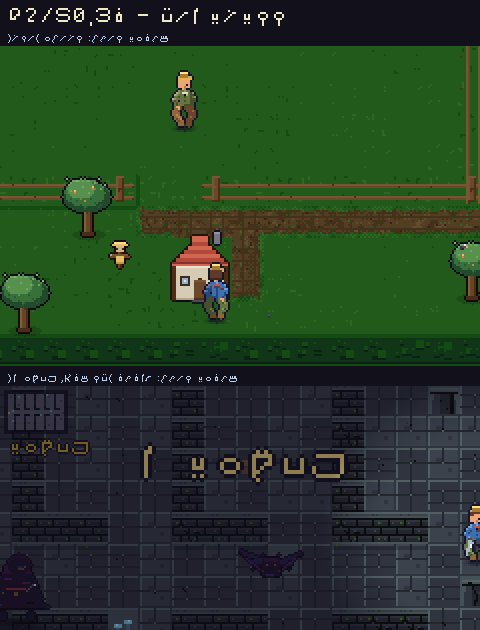
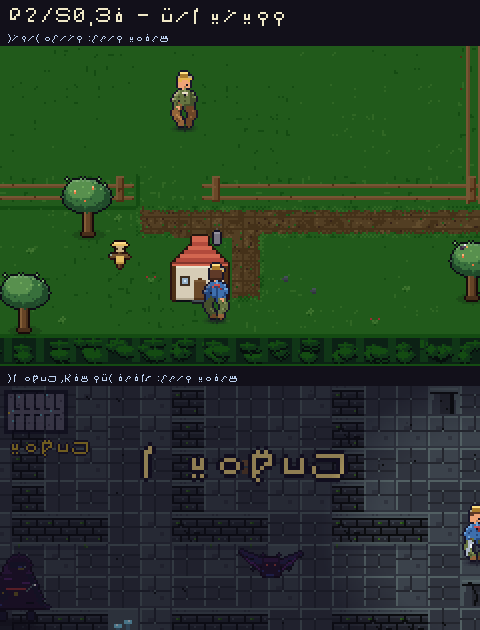
art(S2.9): map edge + clustered decals (baked)
- js/art/decal.js (new, 71L): bakeDecals + drawForest, both baked into the terrain cache
  * 4 clustered 3-6px templates written as character tables (tall-grass tuft, clover,
    flower cluster with 2-3 ramp tones, pebble with 1px shadow) replacing the old
    single-pixel meadow decor
  * placement: deterministic hash2 jitter, density from c.db (near road/water) times the
    same macro fbm field tuftBake uses; grass outside the fence only (never soil/path/water)
  * map edge: dense darker forest band over the S2.8 hedge - 4 baked tree crowns
    (3-layer ellipse: shadow L13 / body L39 / lit top-left L52) clipped to the inner box
    so the S2.8 2px silhouette (crown/dark rim/contact shadow) survives
- farm_terrain.js 218->221L: bakeDecals + drawForest call sites
- farm_render.js: per-frame drawMeadow call removed (zero decal work per frame)
- farm_decor.js 133->113L: drawMeadow deleted
- tools/build_single.mjs: register art/decal in BASE
- docs: MEMORY (ن۷۰ + lessons 64-67 + file map), roadmap/P2.md, ROADMAP.md (S2.9 ticked)

Acceptance: decal density 12.9% on the real map (target 8-14%; the old drawMeadow measured
12.4% by the same metric); zero decal pixels on soil/path (the 8 matching pixels in water
tiles are the pre-existing drawWaterLife lilies); M8 map-edge/forest vs ground = 0 of 92
edges (3/1472 rows, max dL 26.7) and fence = 0 of 108; M6 farm 1.03 and M7 2.2% (was 2.9%)
still in range; run_all ALL GREEN (11/15/27); art_audit unchanged (5.5/10, M8 0/0);
[…]

diff --git a/game.html b/game.html
@@ -1351,6 +1351,82 @@ function drawHedge(r, v) {
 return {drawFence, drawHedge};
 })();
 const {drawFence, drawHedge} = __m_art_fence;
+const __m_art_decal = (() => {
+// art/decal.js — دکالهای خوشهایِ پختهشده + نوارِ جنگلِ لبهی نقشه (S2.9)
+// همه چیز **هنگامِ پخت** در کشِ زمین کشیده میشود ⇒ حلقهی هر فریم هیچ دکالی نمیکشد (درس ۵۷).
+// جایگذاری: jitterِ قطعی روی مختصاتِ جهانی (hash2 یکنواخت) + چگالی از `c.db` (نزدیکیِ راه/آب) و نویزِ ماکرو.
+
+
+
+
+const MACRO_F = 0.025;  // همان میدانِ ماکروی tuftBake در farm_terrain (بذر ۵۱) ⇒ دکالها جایی مینشینند که چمن پرپشتتر است
+
+// قالبهای خوشهای ۳–۶px (جایگزینِ دکورِ پیکسلمنفردِ ن۳۶)
+// '=' روشن (تیغه/رویه) · '-' میانی · '.' سایه · '*' گل · 'o' سنگِ روشن · '#' سنگ · ':' سایهی سنگ
+const TONE = { '=': rp('grass', 6), '-': rp('grass', 5), '.': rp('grass', 3) };
+const FL = [E.flowerY, E.flowerW, E.berry];          // ۲–۳ رنگ از رمپ برای هر دستهگل
+const ST = [E.stoneHi, E.stone, E.stoneSh];
+const TPL = [
+  ['  = ', ' =-=', '=-= ', ' .- '],        // تافتِ علف بلند (۴×۴)
+  [' =-=', '=-==', ' .- '],                // شبدر (۴×۳)
+  ['*   *', ' =-= ', ' -=- ', '  .  '],    // گلدسته (۵×۴)
+  [' oo', '###', ' ::'],                   // سنگریزه (۳×۳) + سایهی ۱px
+];
+function stamp(r, ti, x, y, fl) {
+  const g = TPL[ti];
+  for (let gy = 0; gy < g.length; gy++) for (let gx = 0; gx < g[gy].length; gx++) {
+    const ch = g[gy][gx];
+    if (ch === ' ') continue;
+    const col = TONE[ch] || (ch === '*' ? fl : ch === 'o' ? ST[0] : ch === '#' ? ST[1] : ST[2]);
+    r.px(x + gx, y + gy, col);
+  }
+}
+
+// دکالهای یک تایلِ چمن (فقط بیرونِ حصار: روی خاک/راه/آب/سازه هرگز دکال نمیآید)
+function bakeDecals(r, f, tx, ty, sx, sy) {
+  const c = f.cell(tx, ty);
+  if (c.kind !== 'grass' || f.insideFence(tx, ty)) return;
+  const m = Math.abs(fbm((tx * TILE + 8) * MACRO_F, (ty * TILE + 8) * MACRO_F, 51, 2) - 0.5); // ۰..۰٫۵
+  const p = (c.db ? 0.13 : 0.085) * (0.75 + m * 0.8); // چگالی: کنارِ راه/آب بیشتر + نویزِ ماکرو (کالیبره: ~۱۱٪ روی نقشهٔ واقعی)
+  for (let i = 0; i < 2; i++) {                       // تا ۲ خوشه در تایل
+    if (hash2(tx * 7 + i * 31, ty * 13 - i * 5, 71) >= p) continue;
+    const t = (hash2(tx * 3 + i, ty * 5 + i * 17, 73) * 4) | 0;
+    const gx = sx + 2 + ((hash2(tx * 11 + i * 7, ty * 3 - i, 79) * 8) | 0);  // ۲..۹ (عرض ≤۵ ⇒ در تایل)
+    const gy = sy + 3 + ((hash2(tx * 5 - i * 3, ty * 7 + i * 11, 83) * 7) | 0); // ۳..۹ (ارتفاع ≤۴)
+    stamp(r, t, gx, gy, FL[(hash2(tx + i * 13, ty * 3 + i, 89) * 3) | 0]);
+  }
+}
+
+// نوارِ جنگلِ لبهی نقشه (روی پرچینِ S2.8): تاجهای درختِ پختهشده + زیرسایهی انبوه، یک پله **تیرهتر** از پرچین
+// حاشیهی ۲pxـهی S2.8 (تاج/سایه/لبهی روشن + سایهی تماس روی چمن) دستنخورده میماند ⇒ M8 لبهی نقشه صفر میماند
+const F0 = rp('grass', 0), F1 = rp('grass', 1), F2 = rp('grass', 2), F3 = rp('grass', 3); // L۱۳/۲۵/۳۹/۵۲
+function blob(r, cx, cy, rx, ry, col, x0, y0, x1, y1) { // بیضی با برش به جعبه (تا تاجها روی لبهی تایل نریزند)
+  const r2 = rx * rx, y2 = ry * ry;
+  for (let y = cy - ry; y <= cy + ry; y++) {
+    if (y < y0 || y > y1) continue;
+    for (let x = cx - rx; x <= cx + rx; x++) {
+      if (x < x0 || x > x1) continue;
+      const dx = x - cx, dy = y - cy;
+      if (dx * dx * y2 + dy * dy * r2 <= r2 * y2) r.px(x, y, col);
+    }
+  }
+}
+function drawForest(r, sx, sy, tx, ty) {
+  r.rect(sx + 2, sy + 2, 12, 12, F1);                  // زیرسایهی انبوه (L۲۵)
+  const x0 = sx + 1, y0 = sy + 1, x1 = sx + TILE - 2, y1 = sy + TILE - 2;
+  for (let i = 0; i < 4; i++) {                        // ۴ تاجِ درخت با جابهجاییِ قطعی ⇒ نوار پیوسته میماند
+    const a = hash2(tx * 5 + i * 17, ty * 11 - i * 3, 91), b = hash2(i * 23 - ty, i * 7 + tx * 3, 97);
+    const cx = sx + 4 + ((a * 8) | 0), cy = sy + 4 + ((b * 8) | 0);   // ۴..۱۱
+    const rx = 3 + ((a * 3) | 0), ry = 2 + ((b * 2) | 0);             // ۳..۵ × ۲..۳
+    blob(r, cx, cy + 1, rx, ry, F0, x0, y0, x1, y1);   // سایهی زیرِ تاج (L۱۳)
+    blob(r, cx, cy, rx, ry, F2, x0, y0, x1, y1);       // بدنهی تاج (L۳۹)
+    blob(r, cx - 1, cy - 1, rx - 1, ry - 1, F3, x0, y0, x1, y1); // رویهی روشنِ بالا-چپ (L۵۲)
+  }
+}
+
+return {bakeDecals, drawForest};
+})();
+const {bakeDecals, drawForest} = __m_art_decal;
 const __m_art_autotile = (() => {
 // art/autotile.js — autotiling: mask4/mask8 + جدول ۴۷ تایلی (blob47) + کش لیزِ تایل ۱۶×۱۶ (S2.2)
 // قاعدهی blob47 (استاندارد): بیتِ گوشه فقط وقتی معنا دارد که **هر دو ضلع مجاورش** پر باشند
@@ -1938,27 +2014,6 @@ const __m_art_farm_decor = (() => {
 
 const hash = (x, y) => { let h = (x * 374761393 + y * 668265263) | 0; h = (h ^ (h >> 13)) * 1274126177; return ((h ^ (h >> 16)) >>> 0) / 4294967295; };
 
-// گل/چمنبلند/سنگ روی چمنِ بیرون حصار — تصادفیِ قطعی بر اساس مختصات
-function drawMeadow(r, sx, sy, tx, ty) {
-  const h0 = hash(tx, ty);
-  if (h0 >= 0.061) return; // ن۳۶: چگالی ~۱۲٪ روی نقشه (hash سوگیریٔ پایینی دارد — آستانه کالیبره شد)
-  const fxp = 2 + Math.floor(hash(tx * 3, ty * 7) * 12), fyp = 2 + Math.floor(hash(tx * 11, ty * 5) * 12);
-  if (h0 < 0.028) { // دستهگل (~۴۶٪ از دکور)
-    r.px(sx + fxp, sy + fyp, hash(tx, ty * 13) < 0.5 ? E.flowerY : E.flowerW);
-    r.px(sx + fxp, sy + fyp + 1, E.grassBlade);
-    if (hash(tx * 17, ty) < 0.4) r.px(sx + fxp + 3, sy + fyp + 2, hash(tx, ty * 19) < 0.5 ? E.berry : E.gold);
-  } else if (h0 < 0.045) { // چمن بلند (~۲۸٪)
-    r.px(sx + fxp, sy + fyp + 1, E.grassSh); // ن۳۸: استاتیک — تابِ بیهدف حذف
-    r.px(sx + fxp, sy + fyp, E.grassBlade);
-    r.px(sx + fxp + 2, sy + fyp + 1, E.grassBlade);
-    r.px(sx + fxp + 1, sy + fyp + 2, E.grassSh);
-  } else { // سنگریزهی خاکستری
-    r.px(sx + fxp, sy + fyp, E.stoneHi);
-    r.px(sx + fxp + 1, sy + fyp, E.stone);
-    r.px(sx + fxp, sy + fyp + 1, E.stoneSh);
-  }
-}
-
 // اسپارکل چشمکزن روی محصول رسیده — از دور قابلدیدن
 
 
@@ -2067,9 +2122,9 @@ function drawPathEdge(r, sx, sy, tx, ty, f) {
   if ((m & 64) && (m & 1) && !(m & 128)) cornerNotch(r, sx, sy, 0, 0, gx0, gy0);
 }
 
-return {drawMeadow, drawReadySparkle, drawWaterLife, drawSaleSign, drawPathEdge};
+return {drawReadySparkle, drawWaterLife, drawSaleSign, drawPathEdge};
 })();
-const {drawMeadow, drawReadySparkle, drawWaterLife, drawSaleSign, drawPathEdge} = __m_art_farm_decor;
+const {drawReadySparkle, drawWaterLife, drawSaleSign, drawPathEdge} = __m_art_farm_decor;
 const __m_art_dungeon_depth = (() => {
 // art/dungeon_depth.js — عمق و بافت دانجن: سایهی دیوار روی کف، لبهی روشن،
 // سنگریزه/ترک ریز کف، خزه روی دیوار — همه تصادفیِ قطعی (بدون حالت)
@@ -2722,6 +2777,7 @@ const __m_farm_terrain = (() => {
 
 
 
+
 let cache = null;      // Raster کل دنیا (۴۸۰×۳۲۰)
 let bound = null;      // فارمِ متصل به کش (هر Game کش خودش را دارد)
 const dirty = new Set();
@@ -2846,9 +2902,11 @@ function bakeTile(f, tx, ty, r, wf = 0) {
   }
   else { groundSprite('grass', (tx * 5 + ty * 3) & 3).over(r, sx, sy); base = null; }
   if (base) base.over(r, sx, sy);
+  if (c.kind === 'hedge') drawForest(r, sx, sy, tx, ty); // S2.9: نوارِ جنگلِ لبهی نقشه (تاجهای پختهشده)
   // S2.4: تُنِ ماکرو روی زمینِ چمنی (سازهها هم چون پایهشان چمن است یکدست میمانند)
   if (c.kind === 'grass' || c.kind === 'tree' || c.kind === 'sign' || c.kind === 'house' || c.kind === 'scarecrow') tuftBake(r, sx, sy, tx, ty);
   if (c.kind === 'grass') structShadow(r, f, tx, ty, sx, sy); // S2.8: سایهٔ تماسِ حصار/پرچین/بوته (SE)
+  if (c.kind === 'grass') bakeDecals(r, f, tx, ty, sx, sy); // S2.9: دکالهای خوشهای (فقط چمنِ بیرونِ حصار)
   if (c.kind === 'path') drawPathEdge(r, sx, sy, tx, ty, f);
   if (c.kind === 'soil') soilBake(r, f, tx, ty, sx, sy); // S2.6
   if (c.kind === 'water') bakeWater(r, f, tx, ty, sx, sy, wf);
@@ -3416,7 +3474,7 @@ function renderFarm(game, r) {
       // ---- دکور زندهی مزرعه (آرت جدا در js/art/) ----
       if (c.kind === 'sign') drawSaleSign(r, sx, sy, game.time);
       else if (c.kind === 'scarecrow') drawScarecrow(r, sx, sy, game.time); // نگهبان پرندهها
-      else if (c.kind === 'grass' && !f.insideFence(tx, ty)) drawMeadow(r, sx, sy, tx, ty, game.time, c.db); // db = نزدیکی مسیر/آب → گل بیشتر
+      // S2.9: دکالهای چمنزار (تافت/شبدر/گلدسته/سنگریزه) حالا در کشِ زمین پخته میشوند ⇒ هر فریم صفر هزینه
       if (tx === 26 && ty === 14 && game.toolLvls.sprinkler) drawSprinkler(r, sx, sy, game.time); // آبپاش: بالای حوضچه، از آن آب میکشد
       if (tx === 18 && ty === 16 && game.toolLvls.basket) drawBasketCrate(r, sx, sy, game.time); // سبد: کنار خانه
       else if (c.kind === 'water') drawWaterLife(r, sx, sy, tx, ty, game.time);

diff --git a/js/art/decal.js b/js/art/decal.js
@@ -1,0 +1,71 @@
+// art/decal.js — دکالهای خوشهایِ پختهشده + نوارِ جنگلِ لبهی نقشه (S2.9)
+// همه چیز **هنگامِ پخت** در کشِ زمین کشیده میشود ⇒ حلقهی هر فریم هیچ دکالی نمیکشد (درس ۵۷).
+// جایگذاری: jitterِ قطعی روی مختصاتِ جهانی (hash2 یکنواخت) + چگالی از `c.db` (نزدیکیِ راه/آب) و نویزِ ماکرو.
+import { TILE, E } from './palette_env.js';
+import { hash2, fbm } from './noise.js';
+import { rp } from './ramps.js';
+
+const MACRO_F = 0.025;  // همان میدانِ ماکروی tuftBake در farm_terrain (بذر ۵۱) ⇒ دکالها جایی مینشینند که چمن پرپشتتر است
+
+// قالبهای خوشهای ۳–۶px (جایگزینِ دکورِ پیکسلمنفردِ ن۳۶)
+// '=' روشن (تیغه/رویه) · '-' میانی · '.' سایه · '*' گل · 'o' سنگِ روشن · '#' سنگ · ':' سایهی سنگ
+const TONE = { '=': rp('grass', 6), '-': rp('grass', 5), '.': rp('grass', 3) };
+const FL = [E.flowerY, E.flowerW, E.berry];          // ۲–۳ رنگ از رمپ برای هر دستهگل
+const ST = [E.stoneHi, E.stone, E.stoneSh];
+const TPL = [
+  ['  = ', ' =-=', '=-= ', ' .- '],        // تافتِ علف بلند (۴×۴)
+  [' =-=', '=-==', ' .- '],                // شبدر (۴×۳)
+  ['*   *', ' =-= ', ' -=- ', '  .  '],    // گلدسته (۵×۴)
+  [' oo', '###', ' ::'],                   // سنگریزه (۳×۳) + سایهی ۱px
+];
+function stamp(r, ti, x, y, fl) {
+  const g = TPL[ti];
+  for (let gy = 0; gy < g.length; gy++) for (let gx = 0; gx < g[gy].length; gx++) {
+    const ch = g[gy][gx];
+    if (ch === ' ') continue;
+    const col = TONE[ch] || (ch === '*' ? fl : ch === 'o' ? ST[0] : ch === '#' ? ST[1] : ST[2]);
+    r.px(x + gx, y + gy, col);
+  }
+}
+
+// دکالهای یک تایلِ چمن (فقط بیرونِ حصار: روی خاک/راه/آب/سازه هرگز دکال نمیآید)
+export function bakeDecals(r, f, tx, ty, sx, sy) {
+  const c = f.cell(tx, ty);
+  if (c.kind !== 'grass' || f.insideFence(tx, ty)) return;
+  const m = Math.abs(fbm((tx * TILE + 8) * MACRO_F, (ty * TILE + 8) * MACRO_F, 51, 2) - 0.5); // ۰..۰٫۵
+  const p = (c.db ? 0.13 : 0.085) * (0.75 + m * 0.8); // چگالی: کنارِ راه/آب بیشتر + نویزِ ماکرو (کالیبره: ~۱۱٪ روی نقشهٔ واقعی)
+  for (let i = 0; i < 2; i++) {                       // تا ۲ خوشه در تایل
+    if (hash2(tx * 7 + i * 31, ty * 13 - i * 5, 71) >= p) continue;
+    const t = (hash2(tx * 3 + i, ty * 5 + i * 17, 73) * 4) | 0;
+    const gx = sx + 2 + ((hash2(tx * 11 + i * 7, ty * 3 - i, 79) * 8) | 0);  // ۲..۹ (عرض ≤۵ ⇒ در تایل)
+    const gy = sy + 3 + ((hash2(tx * 5 - i * 3, ty * 7 + i * 11, 83) * 7) | 0); // ۳..۹ (ارتفاع ≤۴)
+    stamp(r, t, gx, gy, FL[(hash2(tx + i * 13, ty * 3 + i, 89) * 3) | 0]);
+  }
+}
+
+// نوارِ جنگلِ لبهی نقشه (روی پرچینِ S2.8): تاجهای درختِ پختهشده + زیرسایهی انبوه، یک پله **تیرهتر** از پرچین
+// حاشیهی ۲pxـهی S2.8 (تاج/سایه/لبهی روشن + سایهی تماس روی چمن) دستنخورده میماند ⇒ M8 لبهی نقشه صفر میماند
+const F0 = rp('grass', 0), F1 = rp('grass', 1), F2 = rp('grass', 2), F3 = rp('grass', 3); // L۱۳/۲۵/۳۹/۵۲
+function blob(r, cx, cy, rx, ry, col, x0, y0, x1, y1) { // بیضی با برش به جعبه (تا تاجها روی لبهی تایل نریزند)
+  const r2 = rx * rx, y2 = ry * ry;
+  for (let y = cy - ry; y <= cy + ry; y++) {
+    if (y < y0 || y > y1) continue;
+    for (let x = cx - rx; x <= cx + rx; x++) {
+      if (x < x0 || x > x1) continue;
+      const dx = x - cx, dy = y - cy;
+      if (dx * dx * y2 + dy * dy * r2 <= r2 * y2) r.px(x, y, col);
+    }
+  }
+}
+export function drawForest(r, sx, sy, tx, ty) {
+  r.rect(sx + 2, sy + 2, 12, 12, F1);                  // زیرسایهی انبوه (L۲۵)
+  const x0 = sx + 1, y0 = sy + 1, x1 = sx + TILE - 2, y1 = sy + TILE - 2;
+  for (let i = 0; i < 4; i++) {                        // ۴ تاجِ درخت با جابهجاییِ قطعی ⇒ نوار پیوسته میماند
+    const a = hash2(tx * 5 + i * 17, ty * 11 - i * 3, 91), b = hash2(i * 23 - ty, i * 7 + tx * 3, 97);
+    const cx = sx + 4 + ((a * 8) | 0), cy = sy + 4 + ((b * 8) | 0);   // ۴..۱۱
+    const rx = 3 + ((a * 3) | 0), ry = 2 + ((b * 2) | 0);             // ۳..۵ × ۲..۳
+    blob(r, cx, cy + 1, rx, ry, F0, x0, y0, x1, y1);   // سایهی زیرِ تاج (L۱۳)
+    blob(r, cx, cy, rx, ry, F2, x0, y0, x1, y1);       // بدنهی تاج (L۳۹)
+    blob(r, cx - 1, cy - 1, rx - 1, ry - 1, F3, x0, y0, x1, y1); // رویهی روشنِ بالا-چپ (L۵۲)
+  }
+}

diff --git a/js/art/farm_decor.js b/js/art/farm_decor.js
@@ -4,27 +4,6 @@ import { E } from './palette_env.js';
 
 const hash = (x, y) => { let h = (x * 374761393 + y * 668265263) | 0; h = (h ^ (h >> 13)) * 1274126177; return ((h ^ (h >> 16)) >>> 0) / 4294967295; };
 
-// گل/چمنبلند/سنگ روی چمنِ بیرون حصار — تصادفیِ قطعی بر اساس مختصات
-export function drawMeadow(r, sx, sy, tx, ty) {
-  const h0 = hash(tx, ty);
-  if (h0 >= 0.061) return; // ن۳۶: چگالی ~۱۲٪ روی نقشه (hash سوگیریٔ پایینی دارد — آستانه کالیبره شد)
-  const fxp = 2 + Math.floor(hash(tx * 3, ty * 7) * 12), fyp = 2 + Math.floor(hash(tx * 11, ty * 5) * 12);
-  if (h0 < 0.028) { // دستهگل (~۴۶٪ از دکور)
-    r.px(sx + fxp, sy + fyp, hash(tx, ty * 13) < 0.5 ? E.flowerY : E.flowerW);
-    r.px(sx + fxp, sy + fyp + 1, E.grassBlade);
-    if (hash(tx * 17, ty) < 0.4) r.px(sx + fxp + 3, sy + fyp + 2, hash(tx, ty * 19) < 0.5 ? E.berry : E.gold);
-  } else if (h0 < 0.045) { // چمن بلند (~۲۸٪)
-    r.px(sx + fxp, sy + fyp + 1, E.grassSh); // ن۳۸: استاتیک — تابِ بیهدف حذف
-    r.px(sx + fxp, sy + fyp, E.grassBlade);
-    r.px(sx + fxp + 2, sy + fyp + 1, E.grassBlade);
-    r.px(sx + fxp + 1, sy + fyp + 2, E.grassSh);
-  } else { // سنگریزهی خاکستری
-    r.px(sx + fxp, sy + fyp, E.stoneHi);
-    r.px(sx + fxp + 1, sy + fyp, E.stone);
-    r.px(sx + fxp, sy + fyp + 1, E.stoneSh);
-  }
-}
-
 // اسپارکل چشمکزن روی محصول رسیده — از دور قابلدیدن
 import { rp } from './ramps.js';
 import { vnoise, hash2 } from './noise.js';           // S2.5: میدانهای نویزِ جهانی (hash2 توزیعِ یکنواخت دارد؛ hash محلی سوگیریِ پایینی دارد)

diff --git a/js/farm_render.js b/js/farm_render.js
@@ -2,7 +2,7 @@
 // افکتها، شب/شبتاب، پروانه/ماهی، آبوهوا (باران/ابر) — فقط رسم، هیچ منطقی
 import { groundSprite, cropSprite, E, TILE, COLS, ROWS, WORLD_W, WORLD_H } from './tiles.js';
 import { rp } from './art/ramps.js'; // S2.6: تُنِ سایهٔ تماسِ محصول
-import { drawMeadow, drawReadySparkle, drawWaterLife, drawSaleSign, drawPathEdge } from './art/farm_decor.js';
+import { drawReadySparkle, drawWaterLife, drawSaleSign, drawPathEdge } from './art/farm_decor.js';
 import { drawTree } from './art/tree.js';
 import { drawFarmhouse, drawFarmhouseGlow, drawScarecrow, drawSprinkler, drawBasketCrate } from './art/farm_buildings.js';
 import { HOUSE, SCARECROW } from './farm_layout.js';
@@ -79,7 +79,7 @@ export function renderFarm(game, r) {
       // ---- دکور زندهی مزرعه (آرت جدا در js/art/) ----
       if (c.kind === 'sign') drawSaleSign(r, sx, sy, game.time);
       else if (c.kind === 'scarecrow') drawScarecrow(r, sx, sy, game.time); // نگهبان پرندهها
-      else if (c.kind === 'grass' && !f.insideFence(tx, ty)) drawMeadow(r, sx, sy, tx, ty, game.time, c.db); // db = نزدیکی مسیر/آب → گل بیشتر
+      // S2.9: دکالهای چمنزار (تافت/شبدر/گلدسته/سنگریزه) حالا در کشِ زمین پخته میشوند ⇒ هر فریم صفر هزینه
       if (tx === 26 && ty === 14 && game.toolLvls.sprinkler) drawSprinkler(r, sx, sy, game.time); // آبپاش: بالای حوضچه، از آن آب میکشد
       if (tx === 18 && ty === 16 && game.toolLvls.basket) drawBasketCrate(r, sx, sy, game.time); // سبد: کنار خانه
       else if (c.kind === 'water') drawWaterLife(r, sx, sy, tx, ty, game.time);

diff --git a/js/farm_terrain.js b/js/farm_terrain.js
@@ -10,6 +10,7 @@ import { fbm, hash2, vnoise } from './art/noise.js';
 import { bayer4 } from './art/dither.js';
 import { rp } from './art/ramps.js';
 import { drawWater, SHORE_FARM } from './art/water.js'; // S2.7: آب و کرانه — یک منبع
+import { bakeDecals, drawForest } from './art/decal.js'; // S2.9: دکالهای خوشهای + نوارِ جنگلِ لبه (هر دو پختهشده)
 
 let cache = null;      // Raster کل دنیا (۴۸۰×۳۲۰)
 let bound = null;      // فارمِ متصل به کش (هر Game کش خودش را دارد)
@@ -135,9 +136,11 @@ function bakeTile(f, tx, ty, r, wf = 0) {
   }
   else { groundSprite('grass', (tx * 5 + ty * 3) & 3).over(r, sx, sy); base = null; }
   if (base) base.over(r, sx, sy);
+  if (c.kind === 'hedge') drawForest(r, sx, sy, tx, ty); // S2.9: نوارِ جنگلِ لبهی نقشه (تاجهای پختهشده)
   // S2.4: تُنِ ماکرو روی زمینِ چمنی (سازهها هم چون پایهشان چمن است یکدست میمانند)
   if (c.kind === 'grass' || c.kind === 'tree' || c.kind === 'sign' || c.kind === 'house' || c.kind === 'scarecrow') tuftBake(r, sx, sy, tx, ty);
   if (c.kind === 'grass') structShadow(r, f, tx, ty, sx, sy); // S2.8: سایهٔ تماسِ حصار/پرچین/بوته (SE)
+  if (c.kind === 'grass') bakeDecals(r, f, tx, ty, sx, sy); // S2.9: دکالهای خوشهای (فقط چمنِ بیرونِ حصار)
   if (c.kind === 'path') drawPathEdge(r, sx, sy, tx, ty, f);
   if (c.kind === 'soil') soilBake(r, f, tx, ty, sx, sy); // S2.6
   if (c.kind === 'water') bakeWater(r, f, tx, ty, sx, sy, wf);

diff --git a/MEMORY.md b/MEMORY.md
@@ -26,7 +26,7 @@ farm-dungeon/   (کل ورکاسپیس ۲٫۵MB — بیرون فقط uploads
     │   · fx⟨129⟩ ذرات/وینیت-فقط-دانجن · night⟨26⟩ LUT شب · i18n⟨126⟩ fa/en+t() · save⟨73⟩ v6+migrate · input⟨86⟩ کیبورد+لمس
     │   · ui⟨160⟩ توست/منو/آیکون · quests⟨51⟩ چرخان×۳ · items⟨79⟩ ۱۲ پوشیدنی+دراپ
     ├── مزرعه ⟨۱۲⟩: game⟨199⟩ حرکت/صف/سیب · game_apply⟨71⟩ ابزار+اقتصاد برداشت · farm⟨135⟩ گرید+CROPS+WATER_TIME+soak/_wetBare+`onCell`/`onAll`
-    │   · **farm_terrain⟨218⟩ کش زمین + markDirty/flushDirty (+۸ همسایه) + OPAQUE (S2.1) + واریانت/ماکروِ چمن (S2.4: tuftBake) + pathVar (S2.5) + soilBake (S2.6)** · farm_layout⟨76⟩ · farm_command⟨90⟩ تپ→nearFree · farm_worker⟨184⟩ · farm_render⟨141⟩ (blit کش + لایههای پویا + سایهٔ تماس محصول S2.6 + آبِ زنده S2.7)
+    │   · **farm_terrain⟨221⟩ کش زمین + markDirty/flushDirty (+۸ همسایه) + OPAQUE (S2.1) + واریانت/ماکروِ چمن (S2.4: tuftBake) + pathVar (S2.5) + soilBake (S2.6)** · farm_layout⟨76⟩ · farm_command⟨90⟩ تپ→nearFree · farm_worker⟨184⟩ · farm_render⟨141⟩ (blit کش + لایههای پویا + سایهٔ تماس محصول S2.6 + آبِ زنده S2.7)
     │   · app⟨201⟩ UPG/MEALS/آفلاین/serializeFarm · app_ui⟨127⟩ چسب DOM · ui_hud⟨69⟩ · ui_shrine⟨48⟩
     ├── دانجن ⟨۱۱+۲۲⟩: main_app⟨192⟩ بوت/ورودی/حلقه/سیو (entry بیلدر — «یتیم» نیست!) · main_scene⟨99⟩ fade/ورود-خروج/bankRun
     │   · run⟨255⟩ حرکت/طبقه/مهارت/دوج/برکت/chill-ریست · run_combat⟨90⟩ حملهی خودکار/runHit · run_loot⟨83⟩ · run_render⟨218⟩ (تاج بعد از اسپرایت، اسپلش زیر موجودیتها)
@@ -34,7 +34,7 @@ farm-dungeon/   (کل ورکاسپیس ۲٫۵MB — بیرون فقط uploads
     │   · dungeon/ (۲۲ فایل ~۲۷ خطی): bp01…bp21.js + bp_boss.js — هرکدام `export const BPXX={name,rows}` ۳۰×۲۰
     │   · monster⟨129⟩ STATS+نخبه+کش اسپرایت · mobs_new⟨174⟩ AI_EXT تیرانداز/یورش/دزدی/جهش + MOB_TAGS · projectiles⟨43⟩ تیر/گوی
     ├── art/ ⟨۳۳⟩: **noise⟨44⟩ hash2/vnoise/fbm/tileNoise/tileFbm (قطعی، بیدرز) · dither⟨22⟩ Bayer2/4/8 بازگشتی + ditherStep (مختصات جهانی) — S2.3** · **autotile⟨95⟩ mask4/mask8/blob47(canon)+IDX_MASK/BLOB_MIRROR + کش عددیِ autoSprite/setAutoBuilder (S2.2)** · **ramps⟨69⟩ + palette_master⟨95⟩ (S1.1/S1.2 — منبع واحد رنگ؛ S1.3+ مصرف)** · پالت — palette_env⟨S1.3: ۵۱ کلید E از رمپ (EMAP)⟩ P→E+کش اسپرایت · palette_hero⟨36⟩ · palette_snap⟨27⟩ قفلپالت قهرمان/کارگر (S1.6) · recolor⟨38⟩ · quality⟨3⟩
-    │   · محیط — ground⟨227⟩ DTHEME×۴+فرش+آب زنده + **چمنِ ۸واریانتی (S2.4: خوشههای ۲–۳px، بدون گل)** + **خاکِ شخمِ شیاردار (S2.6)** · dungeon_depth⟨42⟩ DPAL تکمنبع · dungeon_props⟨111⟩ · water⟨142⟩ آب+کرانه (S2.7: عمق/کاستیک/ساحل/کف) · **fence⟨68⟩ حصار+پرچینِ mask4 (S2.8: ریل/تیرک/تاج/برگ/لبه)** · farm_decor⟨133⟩ (S2.5: drawPathEdge بازنویسیشده = لکه/حاشیه/سایه/گوشه)
+    │   · محیط — ground⟨227⟩ DTHEME×۴+فرش+آب زنده + **چمنِ ۸واریانتی (S2.4: خوشههای ۲–۳px، بدون گل)** + **خاکِ شخمِ شیاردار (S2.6)** · dungeon_depth⟨42⟩ DPAL تکمنبع · dungeon_props⟨111⟩ · water⟨142⟩ آب+کرانه (S2.7: عمق/کاستیک/ساحل/کف) · **fence⟨68⟩ حصار+پرچینِ mask4 (S2.8: ریل/تیرک/تاج/برگ/لبه)** · farm_decor⟨113⟩ (S2.5: drawPathEdge بازنویسیشده = لکه/حاشیه/سایه/گوشه؛ S2.9: drawMeadow حذف و به decal رفت) · **decal⟨71⟩ دکالهای خوشهای + نوارِ جنگلِ لبه (S2.9، هر دو پختهشده)**
     │   │   · farm_buildings⟨119⟩ · tree⟨55⟩ · weather⟨91⟩ · critters⟨64⟩ · light⟨69⟩ applyDarkness+LUT · rim⟨23⟩ · outline⟨75⟩ inkOutline/bakeOutline (S1.7: sel=پلهٔ تیرهٔ هر ماده، L∈[۱۴،۲۴])
     │   · قهرمان — hero_pose⟨131⟩ ریاضی پوز+HOX/HOY · hero⟨261⟩ رسم+halfSprite+S1.6 (رأیاکثریت) + S1.7 (حلقهٔ ink) · equipment⟨99⟩
     │   · هیولا — monster_parts⟨73⟩ MC/MOX/MOY/MHEAD(۱۴جور) · monster_bodies⟨280⟩ ۷ کلاسیک→MBODY_A · monster_bodies2⟨261⟩ ۷ نوی۴۴
@@ -47,6 +47,7 @@ farm-dungeon/   (کل ورکاسپیس ۲٫۵MB — بیرون فقط uploads
 ## ✅ وضعیت (هر نوبت یک خط — جزئیات در شیت/اسکریپت همان نوبت)
 - **ن۶۸: S2.7 ✅ آب و کرانه (یک منبع برای مزرعه و دانجن)** — ماژول تازه **`art/water.js⟨۱۴۲⟩`**: `drawWater(r, sx, sy, cell, tx, ty, frame, shore)`. سه لایه، **همه پختهشده در یک اسپرایتِ ۱۶×۱۶ با کلیدِ عددی** (هیچ hash/رشتهای در مسیرِ داغ نیست): (۱) **بدنه بر اساسِ عمق** = فاصلهی چبیشف تا خشکی (۱..۳)؛ (۲) **کاستیکِ ۴ فریم** (دو نوارِ روشن + یک موجِ تیره) با فازِ `frame + (tx*5+ty*3)` ⇒ تایلها همفاز نیستند؛ (۳) **ساحل** = نوارِ ۱–۳px با عرضِ قطعی از مختصاتِ جهانی + لکههای ماسه/سنگ + **گوشهی گرد** (قوسِ ۲px: بیرونیترین پیکسلِ گوشه آب میماند) + **کفِ موج** خطچین (۴۲٪ پوشش) روی نخستین پیکسلِ آب پس از نوار با نوسانِ ±۱px. **قانونِ تُن (درسِ S2.6 ادامه یافت): هر گذر یک پله** ⇒ ΔL≤۱۴ در همهجا و **M8 صفر بدون dither**. **ساحلِ دونوعه**: تُنِ عادی (مزرعه: `sand[4]`=L۶۵ همرازِ چمنِ پایه، در برابر تُفتهای ۵۲/۷۹ و چمنِ ۶۶ بیشینه ΔL ۱۴) و تُنِ جایگزین برای همسایهی تیره/سازه (پرچین ⇒ `sand[2]`=L۳۹) — و در دانجن برای «بِوِلِ روشنِ» کف (هر تایلِ کف در بالا/چپ `stoneHi`=L۹۲ دارد ⇒ ساحلِ ضلعهای S/E یک پله روشنتر = `P.stone`). `farm_terrain.bakeWater` و `farm_render`/`run_render` حالا فقط همین ماژول را صدا میزنند (خطوطِ کرانهی هاردکدِ ن۳۸ حذف شد). یادداشتِ اطلاعاتِ تایل (ماسک/عمق/تُنِ ساحل) با **همسانیِ شیءهای سلول** اعتبارسنجی میشود ⇒ تعویضِ طبقه خودبهخود بازپویش میکند و در حالتِ پایدار ۵ فراخوانی بهجای ~۵۶. **پذیرش ✓**: **M8 آب↔زمین = ۰** روی پیکسلهای زمین — مزرعه: ۰ لبه (بود **۸**)، چمن ۰/۱۶ ردیف با بیشینه ΔL **۱۳٫۴**، راه ۲/۱۶ (بیشینه ۲۶٫۵ روی ۲ ردیفِ درزِ راه)؛ دانجن seed۴ (۲۴ تایل آب): ۰ لبه (بود **۶**)، بیشینه ΔL ۲۹٫۸ — تنها لبههای باقیماندهی مزرعه **روی همافتادگیِ اسپرایت (سایهبانِ درخت/گلِ چمنزار)** است (۳۷ ردیف، اطلاعی) و در دانجن از **بِوِلِ خودِ کف** (کف↔کف هم ΔL ۴۰ دارد؛ همان دلیلِ M6 دانجن=۰٫۵۳ از P3) · **آرامش: ۳۵۰px = ۰٫۹۱٪ صحنه** بهازای هر گامِ موج (بودجه ۱٪؛ ۱۵٪ ناحیهی آب) و ۳۰۰px = ۰٫۷۸٪ در دانجن · عمق ۸ تایل کمعمق + ۱ میان · صفر پیکسلِ شفاف · صفر پیکسلِ ساحل در لبهی داخلی · گوشهی گرد تأیید · **ms ≤ پایه و حتی بهتر**: دانجن f1 (۱۰۹ تایل آب) ۱٫۳۷۳/۱٫۳۵۵ms در برابر ۱٫۵۵۴/۱٫۴۲۸ms قبل (کلیدِ رشتهایِ `groundSprite` حذف شد)؛ مزرعه در نویز · run_all ALL GREEN (بوت ۱۱ · render5 ۱۵ · render6 ۲۷) · art_audit بدون تغییر (۶/۱۱ → ۵٫۵/۱۰؛ M8 ۰/۰ · M6 مزرعه ۱٫۰۰/دانجن ۰٫۵۳ · M7 ۶٫۵٪). **سه اشتباهِ ثبتشده**: (۱) کفِ موج در `k=w-1+off` روی **خودِ نوار** میافتاد ⇒ لبهی L۲۰۸ درست روی مرزِ آب↔زمین (ΔL ۱۶۹!)؛ `k=w+off` درست است. (۲) جدولِ SIDE فاقدِ dx/dy بود و از `fromStart` استنتاج میشد ⇒ ضلعِ E همسایهی **غربی** را میخواند و ساحلِ تیره هیچوقت اعمال نمیشد (پرچین: ۱۵/۱۶ ردیف). (۳) ساحلِ **روشن** در دانجن (`P.cap`=L۶۵) تستِ تاریکیِ render6 را شکست (نمونهی دور از قهرمان ۱۳۱ در برابر سقفِ ۱۰۲؛ قبل ۷۱) ⇒ ساحلِ غار باید یک پله **تیرهتر** از کف باشد (`P.mortar`=L۳۹ ⇒ ۸۸ ✓). نشست بعدی: **S2.8** (حصار و پرچین autotile + سایهی تماسی)
 - **ن۶۹: S2.8 ✅ حصار و پرچین autotile + سایهٔ تماسی** — ماژول تازه **`art/fence.js⟨68⟩`**: `drawFence(r,v)` / `drawHedge(r,v)` با **variant = mask4 | (واریانتِ چوب/برگ << ۴)**؛ ماسک را `farm_terrain` از همسایهٔ همجنس میسازد (`fenceVar`/`hedgeVar`، ۳ واریانتِ چوب و ۴ واریانتِ برگ از `hash2` ⇒ تکرارِ ۱۶px دیده نمیشود). **حصار**: ریلِ بالا/پایین (۲px با هایلایتِ رویه) **فقط در امتدادِ محوری که همسایهٔ حصار دارد**؛ سرِ باز **پیش از لبه** با کلاهک تمام میشود ⇒ نه ریل گسسته میماند، نه روی چمنِ همسایه بیرون میزند. **تیرک فقط در انتها/گوشه/تقاطع/تک** (در راستای ساده نمیآید) + گره/ترک/رگه. **پرچین**: بدنه + **تاجِ روشن** و **سایهٔ تیرهی پایین** که **فقط روی ضلعِ بیهمسایه** کشیده میشوند (روی ضلعِ متصل باز میمانند ⇒ نوارِ تختِ هر-۱۶px ساخته نمیشود، همان درسِ ن۳۸) + ۷ لکهی برگِ خوشهای با جابهجاییِ هش (نه شبکهی مربعی) + لبهی نمایانِ ۱px روشن با **گوشهی گرد**. **سایهٔ تماس (۲px، SE)** در `farm_terrain.structShadow`: هنگامِ پختِ تایلِ **چمنیِ پذیرنده** از همسایهٔ N/W خوانده میشود (حصار/پرچین/بوته) و **همرنگ با لبهی سازه** است (`grass[3]`=L۵۲ در برابر چمنِ پایه L۶۶ ⇒ ΔL ۱۴، و لبهی سازه↔سایه ΔL ۰). کشِ اسپرایت از ۸ به **۶۴ واریانت** گسترش یافت (`_gnum` ۱۵×۵۱۲×۴) چون mask4 چهار بیت است. **پذیرش ✓**: **تستِ اتصال = ۰ نقص از ۷۶۸ بررسی** در ۳ حالتِ لیآوت (پیشفرض / باغدوم / بازمهر) — ۵۲ تایلِ حصار، ۸ کلاسِ ماسک {۲،۳،۵،۶،۸،۹،۱۰،۱۲}، **۸ تیرکِ درست** (۴ گوشه + ۴ انتهایِ کنارِ دروازه) و **۰ تیرکِ اضافه** در راستا · **M8 حصار↔زمین = ۰** از ۱۰۸ لبه (۰/۱۷۲۸ ردیف، بیشینه ΔL **۱۳٫۷**) · **M8 پرچین↔زمین = ۰** از ۹۲ لبه (۳/۱۴۷۲ ردیف، بیشینه ۲۶٫۷) · **سایهٔ تماس: ۸۳ تایل سایهدار، ۰ بیسایه** · **M7 مزرعه ۲٫۹٪** (بود ۶٫۵٪) · run_all ALL GREEN (بوت ۱۱ · render5 ۱۵ · render6 ۲۷) · art_audit بدون تغییر (۶/۱۱ → ۵٫۵/۱۰؛ M8 ۰/۰ · M6 مزرعه ۱٫۰۲/دانجن ۰٫۵۳) · **ms در نویز** (±۰٫۰۶؛ ماسک فقط هنگامِ پخت محاسبه میشود ⇒ هزینهٔ هر فریم نیفزود). **سه اشتباهِ ثبتشده**: (۱) مختصاتِ نمونهٔ ریل در سنجه جابهجا بود (برای لبهٔ E/W باید **ستون=مرز** و **سطر=ردیفِ ریل** باشد) ⇒ ۶۵۶ نقصِ دروغین. (۲) انتخابِ قاب برای **کلِ تایل + ۱px حاشیه** ⇒ تایلِ لبهی نقشه (پرچینِ x=۰) هیچ قابی نداشت و سنجه **۰ لبه** گزارش میداد؛ قاب باید **بهازای هر لبه** (جعبهی همان دو ستون/سطرِ مرز) انتخاب شود. (۳) سایهبانِ درخت و گلِ تزیینی روی حصار/سایه میافتند ⇒ در سنجههای ساختاری، اسپرایتهای پویا (درخت/خانه/تابلو/مترسک) را موقتاً به چمن تبدیل کن و نوارِ سایه را با آستانهٔ ۶۰٪ بسنج. نشست بعدی: **S2.9** (لبهی نقشه + دکالهای خوشهای، شامل گلهای تعویقافتاده از S2.4)
+- **ن۷۰: S2.9 ✅ لبهی نقشه + دکالهای خوشهای (پختهشده)** — ماژول تازه **`art/decal.js⟨71⟩`** با دو صادر: (۱) **`bakeDecals`** — ۴ **قالبِ خوشهایِ ۳–۶px** بهجای دکورِ پیکسلمنفردِ ن۳۶: تافتِ علف بلند (۴×۴)، شبدر (۴×۳)، گلدسته با ۲–۳ رنگ از رمپ (۵×۴)، سنگریزه (۳×۳ + سایهی ۱px). قالبها **جدولِ کاراکتری**اند ('=' روشن · '-' میانی · '.' سایه · '*' گل · 'o/:/#' سنگ) ⇒ هر الگو ۳–۴ خط. جایگذاری: jitterِ قطعی با `hash2` و **چگالی از `c.db` (نزدیکیِ راه/آب) ضربدر نویزِ ماکرو** (همان میدانِ `fbm` بذر ۵۱ که `tuftBake` استفاده میکند ⇒ دکالها جایی مینشینند که چمن پرپشتتر است)؛ فقط چمنِ **بیرونِ حصار** (روی خاک/راه/آب/سازه هرگز). (۲) **`drawForest`** — نوارِ جنگلِ لبهی نقشه روی پرچینِ S2.8: زیرسایهی انبوه + **۴ تاجِ درختِ پختهشده** (بیضیِ سهلایه: سایهی L۱۳ / بدنهی L۳۹ / رویهی روشنِ بالا-چپ L۵۲) با جابهجاییِ قطعی، **برشخورده به جعبهی درونی ۱..۱۴** ⇒ حاشیهی ۲pxـهی S2.8 (تاج/سایه/لبهی روشن + سایهی تماس روی چمن) دستنخورده میماند. **دکالها در کشِ زمین پخته شدند و `drawMeadow` از حلقهی هر فریم حذف شد** (farm_render −۱ فراخوانی بهازای هر تایل · farm_decor −۲۰ خط). **پذیرش ✓**: **چگالی ۱۲٫۹٪** (هدف ۸–۱۴٪ — با همان معیار، `drawMeadow` قدیمی ۱۲٫۴٪ بود ⇒ کالیبراسیون دقیق) · **هیچ دکال روی خاک/راه** (۰ پیکسل؛ ۸ پیکسلِ همتُن در تایلهای آب از **نیلوفرهای `drawWaterLife`** است که پیش از این هم بود، نه دکال) · **M8 نوارِ جنگل↔زمین = ۰** از ۹۲ لبه (۳/۱۴۷۲ ردیف، بیشینه ΔL ۲۶٫۷) و **حصار = ۰/۱۰۸** · M6 مزرعه **۱٫۰۳** ✓ · **M7 مزرعه ۲٫۲٪** (بود ۲٫۹٪) · run_all ALL GREEN (بوت ۱۱ · render5 ۱۵ · render6 ۲۷) · art_audit بدون تغییر (۵٫۵/۱۰ · M8 ۰/۰) · **ms**: مزرعهٔ روز **۰٫۳۳۴ms** یعنی **۴۴٪ کمتر از بودجهی مستندِ ۰٫۶۰ms**؛ نسبت به S2.8 در نویز است (در همان پنجره دانجن هم ۱٫۳۸۸→۱٫۱۲۱ آمد ⇒ ماشین ~۱۹٪ سریعتر بود) — چون `drawMeadow` از قبل فقط ~۳۰ فراخوانیِ ارزان در هر فریم بود؛ **دستاوردِ واقعی این است که دکالها حالا رایگاناند و در عین حال ۳–۶px و خوشهای (قبل: ۱–۴ پیکسلِ پراکنده)**. **سه اشتباهِ ثبتشده**: (۱) لنگرِ حذف در `farm_decor` اشتباه بود ⇒ بیلد با ماژولِ **ثبتنشده** در BASE رفت و بوت **hang** کرد (درس ۱)؛ (۲) `tools/bench.mjs` هر بار `tools/baseline.json` را بازنویسی میکند ⇒ بعد از A/B با stash، پیش از `git stash pop` باید `git checkout -- tools/baseline.json` کرد؛ (۳) چگالیِ اولیه ۶٫۴٪ از حد پایینتر افتاد چون ضریب را از مدل حساب کرده بودم — معیار را با **بازسازیِ همان محاسبهی قدیمی در سنجه** اندازه گرفتم (۱۲٫۴٪) و ضریب را روی همان کالیبره کردم. نشست بعدی: **🛑 R2** (بررسیِ پایانِ فازِ P2 — نوبتِ ۷۱)
 - **ن۶۷: S2.6 ✅ خاکِ شخمِ متصل + خاکِ خیس** — `ground.js` (شیارِ ۲px با **یک پله** زیرِ تُنِ پایه: ΔL≈۱۳ · خطِ روشنِ بالا حذف شد چون بین دو خاکِ همجوار درزِ ۱px میساخت · ۹ دانهٔ `hash2` که هرگز روی ردیفِ شیار نمیافتد · سنگریزه + ۳ لکهٔ رطوبتِ ۲px از `rp('water',3)` روی خاکِ خیس). **`soilBake`ِ تازه در `farm_terrain`**: لبهٔ **بیرونی** (خاک↔غیرخاک) از `mask4` = **حاشیهٔ ۲–۳px چمن** با همان میدانِ تُنِ چمنِ همسایه (`vnoise(۰٫۳)·۰٫۶+bayer4·۰٫۴` → `grass[3/4/5]`) و ۱px کلوخهٔ روشن (N/W)/سایهٔ تیره (S/E) **داخلِ** حاشیه ⇒ M8 صفر؛ لبهٔ **داخلی باز** ⇒ شیارها بین دو تایلِ همحالت ۱۰۰٪ یکسان · گذارِ **خیس↔خشک** = نوارِ ۳px ditherِ bayer4 با مختصاتِ **جهانی** روی هر دو سو (نیمهٔ مکملِ یک قاعده، نه نقطهٔ آبیِ منفرد). مرزِ خیس↔غیرخاک به حاشیهٔ چمن واگذار شد (نه dither). `farm_render`: سایهٔ تماسِ محصول (۲px: `soilSh` + `soil[1]`) پیش از `cropSprite`. **پذیرش ✓**: **M8 خاک↔غیرخاک = ۰** (M8 مزرعه هم ۰) · **ΔL(خیس، خشک) ۱۱٫۸** (ناحیهٔ مرکزیِ ۱۰×۱۰؛ تُنِ پایه ۱۳٫۲ نظری · میانگینِ کلِ تایل ۹٫۸ چون نوارِ گذارِ ۳px عمداً دو حالت را میآمیزد) · **M6 مزرعه+بلوکِ شخم ۰٫۹۷** (قید ۰٫۸–۱٫۲۵؛ پنجرهٔ بلوک ۰٫۹۰) · **M7 ۴٫۹٪** · شیارِ مرزی خاک↔خاک ۱۲/۱۲ یکسان + صفر پیکسلِ چمنِ کاذب در لبهٔ داخلی · لبهٔ شمالیِ بیرونی ۴/۴ (ردیفِ ۰ چمن + کلوخه در عمقِ ۲) · **سایهٔ تماس ۶/۶ + ۴/۴** · **صفر پیکسلِ شفاف** در کلِ کش · خواناییِ محصول ΔL ۱۹ (قیدِ ≥۲۵ نهایی در S5.2) · پایداریِ فریم · M11 ۰٫۳۹۸ms · run_all ALL GREEN (بوت ۱۱ · render5 ۱۵ · render6 ۲۷). **دو بازطراحیِ ثبتشده**: (۱) v1 = کلوخه/سایهٔ ۱px **چسبیده** به همسایهٔ غیرخاک ⇒ جهشِ L66↔L25–39 در >۲۵٪ ردیفها و M8=۲ (و ΔL خیس/خشک ۸٫۵ چون خطِ شیارِ خیس همتُنِ نوار بود)؛ (۲) خطِ ۱px روی نوارِ شیار = دو پله ⇒ M6 ۰٫۷۸. بازبینی چشمی روی برشِ ×۵ از قابِ رندر. نشست بعدی: **S2.7** (آب و کرانه: autotile + عمق + کاستیک)
 - **ن۶۶: S2.5 ✅ خاکراه: ۴ واریانتِ جهتدار + لکههای خوشهای + حاشیهٔ ۲–۳px** — اسپرایتِ راه = تُنِ خالصِ `dust[4]` + **رِیلِ چرخِ جهتدار** (بیت۰ = E/W · بیت۱ = N/S؛ `pathVar` همسایههای راه|دروازه|خانه را میبیند) ⇒ رِیل بین تایلهای همجهت **پیوسته** (۱۸ جفتِ مرزی، ۰ ناهمسانی). **همهی بافت از میدانهای جهانی**: `drawPathEdge` با همان امضا بازنویسی شد (⇒ کلِ نشست فقط ۳ فایل ویرایشی) — لکههای `dust[3]`/`dust[5]` با `vnoise(۰٫۴۲)·۰٫۷۸+bayer4·۰٫۲۲` و آستانهٔ `vnoise(۰٫۰۸)` (جهانی ⇒ بیدرز)، خاشاکِ `dust[2]` ~۲٪ و علفِ پراکنده با dither ~۲٫۵٪؛ **حاشیه** با `mask8`+`blob47/IDX_MASK`: بریدگیِ ۲–۳px (~۴۰٪ سهپیکسلی) + سایهٔ تماسِ ۱px + چمنِ پراکنده، و **گوشهٔ داخلیِ پیچ** = مثلثِ چمنِ ۶px. **پذیرش ✓**: **ΔL مرزِ راه↔راه ۶٫۵۵ ≈ درونِ راه ۶٫۳۵ ⇒ نسبت ۱٫۰۳** (قید ۰٫۸–۱٫۲۵) · **M8=۰** · **M6 مزرعه ۱٫۰۰** · **صفر پیکسلِ شفاف** در کلِ کش · حاشیه ۲۹۶ نمونه = ۱۸۰×۲px + ۱۱۶×۳px ⇒ **۱۰۰٪ در بازهٔ ۲–۳px** · ۴ واریانتِ یکتا · M7 ۶٫۵٪ · پایداری فریم · تستِ L/T/+ (۱۳ تایل دستی): رِیل ۴۲/۴۲ در دو جهت + ۴/۴ پیوندِ مرزی + گوشهٔ داخلی ✓ + مرزِ رو به راه پاک · run_all سبز · شیت/ref/baseline بازتولید. نشست بعدی: **S2.6** (خاکِ شخمخوردهٔ متصل + خیس)
 - **ن۶۵: S2.4 ✅ چمن ۸ واریانت + نویز ماکرو** — خوشههای ۲–۳px (خطی افقی/عمودی + خمِ L) از `hash2` با seedِ واریانت، **بدون گل**؛ کش `groundSprite` به ۶۴ اسلات/کیند پهن شد؛ واریانت per تایل = `hash2(tx,ty)`. **ماکرو**: `fbm`≈۱/۴۰px ⇒ جهت/چگالیِ تافت (`p=۰٫۱۴+min(۰٫۵۸,|m|·۱٫۷)`، نگهداشتن با `vnoise(۰٫۳)·۰٫۶+bayer4·۰٫۴`) — **تلاشِ بلوکیِ اول (جابهجایی تُنِ کل تایل) در بازبینی چشمی رد شد (شطرنجی)**. **پذیرش ✓**: M6 ۰٫۵۹→**۰٫۹۷**، M7 ۴۵٫۸→**۶٫۵٪**، ΔL درونتایل **۱۳٫۷≤۱۴**، رنگ چمن **۳**، ۸/۸ واریانت، M8=۰، استاتیک، dirty-tile سالم (۹ تایل/تغییر)، M11 ۰٫۳۶۳ms، run_all سبز، شیت/ref/baseline بازتولید. نشست بعدی: **S2.5** (خاکراه + ترنزیشن چمن↔راه)
@@ -65,7 +66,7 @@ farm-dungeon/   (کل ورکاسپیس ۲٫۵MB — بیرون فقط uploads
 - **ن۵۲: S0.3 ✅ art_audit پایدار** — `tools/art_audit.mjs` (M1–M10 عددی + شیت + JSON؛ قطعی=random استاب؛ ۰٫۳ث) + `shots/audit_baseline.json` + `shots/art_audit.png` + ۴ صحنهی مرجع `ref_*.png`؛ **اسکرینشاتهای قدیمی (۶ فایل) بهخواست کاربر حذف شدند**؛ CI: `.github/workflows/ci.yml` (هر push: run_all + art_audit + آپلود آرتیفکت)؛ پایهی سنجهمحور **۲/۱۱ = ۱٫۸/۱۰** — M1 ΔL=۹٫۶ (bat بدترین) · M2=۲۲ · M3 قهرمان ۸۳ رنگ/موب ۵–۹ · M4=۱ باند · M5=۹۷٫۴٪ · M6=۰٫۵۹/۰٫۵۷ · M7=۴۶٫۲٪/۰٫۷٪ · M8=۰/۰ · M9 idle-min=۰٪ (golem یخزده)، حمله ۱۹٫۸/۱۹٫۱٪ · M10=۷–۱۳px×۴؛ همخوانی با ن۴۸: قهرمان ۸۳↔۸۲، موب ۵–۹↔۵–۹، محصول ۷–۱۳↔۷–۱۳، حمله ۱۹٫۸/۱۹٫۱↔۱۵/۱۹، bat بدترین↔bat · نشست بعدی: S0.4
 - **ن۵۱: S0.1 ✅ + S0.2 ✅** — مخزن با توکن کلون شد، `farm-dungeon-roadmap.zip` آنزیپ و ساختار پروژه در ریشهی ریپو (`farm-dungeon/`) قرار گرفت؛ zip حذف؛ `secret_guard: clean`؛ پوش اول `3f61d4c` (local==remote)؛ تگ `art-baseline` لوکال+ریموت · **S0.2**: `tools/setup_tests.sh` + `tools/boot_check.mjs` (۱۰ سناریو jsdom) + `tools/run_all.sh` → `ALL GREEN` در ۲۲ث (boot ۱۰/۱۰ در ۱۹٬۲ث · render5 ۱۵/۱۵ · render6 ۲۷/۲۷) و **بیلد بایتبرابر با game.html موجود (Parity)** · نشست بعدی: S1.5a (موبهای کلاسیک)
 - **ن۵۰: رودمپ آرت v2 تدوین شد** (۵۹ نشست/۹ فاز: P0 زیرساخت · P1 رنگ · P2 تایل مزرعه · P3 تایل دانجن · P4 نور · P5 جزئیات مزرعه · P6 موجودات · P7 UI · P8 پولیش) — کد بازی دستنخورده، فقط `.gitignore` + `tools/push.sh` + `tools/secret_guard.sh` + ROADMAP/roadmap اضافه شد · نشست بعدی: S0.3 · هدف امتیاز آرت ۵٫۵ → ≥ ۸٫۵ (Scoreboard در ROADMAP.md)
-- قابل بازی: game.html روی :8080 · نوبت جاری: **ن۶۹ — S2.8 ✅ حصار و پرچین autotile + سایهٔ تماسی (اتصال ۰ نقص در ۳ لیآوت · M8 حصار/پرچین↔چمن = ۰ · سایهٔ تماس ۸۳ تایل · M7 ۲٫۹٪)؛ P2 ادامه دارد (نشست بعدی S2.9: لبهی نقشه + دکالهای خوشهای)** — کمبودها: **P1 خوانایی** bat ΔL=۳ و فقط ۱۵px، bandit ΔL=۵، spider ۲۱، ghost ۱۰ (نیمهعمدی)، outline اسکلت/کماندار L~۸۶=حاشیه نه outline · **P2 سبک** پالت قهرمان ۸۲ رنگ↔موبها ۵-۹ (ژاکارد ۰٫۰۱۷)، outline غیریکدست (انحراف ۴۲)، اسکلت/کماندار ۲ باند سایه، صفر بافت/dither (فاصلهی اصلی با استاردیو) · **P3** محصول ۴ مرحله (استاردیو ۵) و رسیده ۷-۱۳px، حملهی اسکلت ۱۵٪/کماندار ۱۹٪ کمخوانا، idle hare/golem/boss ۱۱-۱۴٪ یخزده، اسکلت ۲٫۳t>قهرمان ۱٫۸t، گلیف ص/ض/ط/ظ ۸px در شبکهی ۷ · قوتها: خط لولهی منظم، انیمیشن ۴حالته، فونت ۹۵ گلیف، باس≠گولم، صحنه ۱۰۸-۱۷۰ رنگ · سنجهها: shots/art48_review.png (اسکریپت اندازهگیری /tmp/artaudit48.mjs — سنجهها: پالت کوانتیزه >>۴، خوشهی روشنایی ≥۸٪، ΔL در برابر کفِ L=۷۲، ژاکارد، diffRatio)
+- قابل بازی: game.html روی :8080 · نوبت جاری: **ن۷۰ — S2.9 ✅ لبهی نقشه + دکالهای خوشهایِ پختهشده (چگالی ۱۲٫۹٪ · M8 لبه/حصار = ۰ · دکالها از هر فریم حذف شدند · مزرعه ۰٫۳۳ms = ۴۴٪ زیرِ بودجه)؛ P2 کامل شد (S2.1–S2.9 همگی ✅) — نشست بعدی 🛑 R2 بازبینیِ پایانِ فاز (شیت P2+P3)** — کمبودها: **P1 خوانایی** bat ΔL=۳ و فقط ۱۵px، bandit ΔL=۵، spider ۲۱، ghost ۱۰ (نیمهعمدی)، outline اسکلت/کماندار L~۸۶=حاشیه نه outline · **P2 سبک** پالت قهرمان ۸۲ رنگ↔موبها ۵-۹ (ژاکارد ۰٫۰۱۷)، outline غیریکدست (انحراف ۴۲)، اسکلت/کماندار ۲ باند سایه، صفر بافت/dither (فاصلهی اصلی با استاردیو) · **P3** محصول ۴ مرحله (استاردیو ۵) و رسیده ۷-۱۳px، حملهی اسکلت ۱۵٪/کماندار ۱۹٪ کمخوانا، idle hare/golem/boss ۱۱-۱۴٪ یخزده، اسکلت ۲٫۳t>قهرمان ۱٫۸t، گلیف ص/ض/ط/ظ ۸px در شبکهی ۷ · قوتها: خط لولهی منظم، انیمیشن ۴حالته، فونت ۹۵ گلیف، باس≠گولم، صحنه ۱۰۸-۱۷۰ رنگ · سنجهها: shots/art48_review.png (اسکریپت اندازهگیری /tmp/artaudit48.mjs — سنجهها: پالت کوانتیزه >>۴، خوشهی روشنایی ≥۸٪، ΔL در برابر کفِ L=۷۲، ژاکارد، diffRatio)
 - ن۴۹: **باگهای ظاهری + پولیش** — (۱) تایلهای fence/fencePost شفاف بودند (بدون چمن زیرشان → سیاهی/ردّ فریم قبل روی بوم) → چمن زیرشان در farm_render · (۲) خاکراه: تایلهای «نانمانند» جدا → تایل پر + حاشیهی دندانهای per-همسایه `drawPathEdge` (farm_decor) + سنگریزهی پراکنده · (۳) دروازهی ۲×۲ دو در روی هم بود → طاق یکپارچه (variant 0 سردر / 1 آستانه) · (۴) گندم رسیده شبیه «میز» → سه سنبلهی طلایی با ریشک · (۵) فونت font2: حروف کوچک لاتین «؟» میشدند (Floor→F????) → نگاشت به بزرگ؛ نیمفاصلهی U+200C «؟» رسم میشد → حذف؛ ارقام داخل جملهی فارسی برعکس بودند (۱۲۳→۳۲۱) → bidi ردیفهای LTR؛ alias آ/أ/ي/ك/٪/—/→ و گلیف ( ) = ·؛ ۳ شبیه «؟» بود → سهقوسی · بیلد+بوت jsdom صفر خطا · شفافیت: صفر پیکسل alpha=0 در مزرعه و ۵ طبقهی دانجن
 - ن۴۷: ۶ فیکس — تاج نخبه MHEAD per-kind (۱۴ جور کالیبره از رندر واقعی) + تاج بعد از اسپرایت (خز وسطش را میخورد) + اسپلش زیر موجودیتها + صدای shoot/fire + chill ریست + monster_registry (همه ≤۲۸۰ خط) · wire سختگیر BASE∪entry 108/108 (۲ صدا import میشدند ولی باندل نبودند!) · qa_all 52 · elite47 4/4 · stage47_elites.gif+montage
 - ن۴۶: پاکسازی ۲۰MB→۴٫۹MB؛ ن۴۷ پالایش به سیاست «فقط فایل جاری» → ۲٫۵MB
@@ -167,6 +168,10 @@ farm-dungeon/   (کل ورکاسپیس ۲٫۵MB — بیرون فقط uploads
 62. **سایهٔ تماس را هنگامِ پختِ تایلِ پذیرنده از همسایهٔ N/W بخوان** (نه هنگامِ پختِ خودِ سازه) و تُنِ لبهی سازه را با رنگِ همان سایه **همراز** کن ⇒ مرزِ سازه↔زمین ΔL≈۰ و سایه فقط ۲px جلوتر مینشیند؛ رویه/سایهی پایینِ یک نوارِ یکتایلضخامت (پرچین) را فقط روی ضلعِ **بیهمسایه** بکش تا نوارِ تختِ هر-۱۶px نسازی (درسِ ن۳۸، ن۶۹)
 63. در سنجهی ساختاری: قاب را **بهازای هر لبه** انتخاب کن (تایلِ لبهی نقشه فقط یک مرزِ قابلاندازهگیری دارد؛ انتخاب برای کلِ تایل ⇒ «۰ لبه»ی دروغین)، مختصاتِ نمونه را با جهتِ لبه هماهنگ کن (لبهٔ E/W: ستون=مرز، سطر=ردیفِ عضو)، و اسپرایتهای پویا (درخت/خانه/گل) را موقتاً به چمن تبدیل کن — وگرنه همپوشانیِ عمدی را نقص میشماری (ن۶۹: ۶۵۶ نقصِ دروغین)
 ## ⚠ قواعد ثابت کاربر
+64. هرچه روی زمین است و به زمان/ورودی وابسته نیست در **کشِ زمین** بپز — اما اگر بخشِ حذفشده از قبل ارزان بود (~۳۰ فراخوانیِ هش در هر فریم)، انتظارِ افتِ محسوسِ ms نداشته باش: سودِ واقعی این است که حالا میتوانی دکور را **چند برابر غنیتر** کنی (قالبِ ۳–۶px بهجای ۱–۴ پیکسلِ پراکنده) بی یک میکروثانیه هزینه؛ و برای سنجیدنِ این، «بودجهی مستند» را مبنا بگیر نه نویزِ ماشین را (ن۷۰: مزرعه ۰٫۳۳۴ در برابر بودجهی ۰٫۶۰؛ در همان پنجره دانجن هم ۱۹٪ سریعتر آمده بود)
+65. قالبِ خوشهای را با **جدولِ کاراکتری** بنویس ('=' روشن · '-' میانی · '.' سایه · '*' تأکید) ⇒ هر الگو ۳–۴ خط و تنظیمش بیریاضیاتِ مختصات؛ و چون الگو از تایل بیرون میزند، جایگذاری را طورى محدود کن که `مبدأ + عرضِ الگو ≤ ۱۴` شود — وگرنه دکال در مرزِ تایل بریده میشود (ن۷۰)
+66. لایهای که روی لبهی نقشه/سازه میکشی باید **حاشیهی ۲pxـهی لبه** (تاج/سایه/لبهی روشن + سایهی تماسِ S2.8) را دستنخورده بگذارد — با **برشِ بیضی به جعبهی درونی**؛ وگرنه M8 لبه میشکند در حالی که خودِ نوار هیچ تغییری نکرده. و معیارِ چگالی را با **بازسازیِ همان محاسبهی قدیمی در سنجه** کالیبره کن، نه با مدلِ ذهنیِ احتمال (ن۷۰: مدل ۱۲٪ میگفت، واقعیت ۶٫۴٪ بود)
+67. `tools/bench.mjs` هر بار `tools/baseline.json` را بازنویسی میکند ⇒ در A/B با `git stash`، پیش از `git stash pop` باید `git checkout -- tools/baseline.json` کرد (وگرنه pop با «تغییراتِ محلی بازنویسی میشود» شکست میخورد و stash سرجا میماند) (ن۷۰)
 - هیچ فایل خارجی (عکس/فونت/صدا) — همه Canvas 2D، پیکسلآرت، بدون AA، Math.round، کش یکبار، مقیاس صحیح
 - بدون ایموجی در UI · دوزبانه fa/en با t() و RTL · موبایلاول: تپ=A*+ابزار خودکار، WASD+Space
 - بدون داستان/NPC؛ هر عنصر دلیل/کارکرد داشته باشد · بذر فقط از دانجن

diff --git a/roadmap/P2.md b/roadmap/P2.md
@@ -86,11 +86,12 @@
 **نتیجه (ن۶۹):** ماژولِ تازه `art/fence.js⟨68⟩` (`drawFence`/`drawHedge`، variant = mask4 | واریانتِ چوب/برگ << ۴)؛ کشِ اسپرایت از ۸ به **۶۴ واریانت** گسترش یافت (`_gnum` ۱۵×۵۱۲×۴)؛ `farm_terrain⟨218⟩` ماسک را میسازد (`fenceVar`/`hedgeVar`) و `structShadow` را هنگامِ پختِ تایلِ چمنی از همسایهٔ N/W میخواند (همرنگ با لبهی سازه ⇒ ΔL ۰). `ground.js` از ۲۵۴ به ۲۲۷ خط رسید (شاخههای fence/hedge تفویض شد). **اتصال ۰ نقص از ۷۶۸** در ۳ لیآوت (۵۲ تایلِ حصار، ۸ کلاسِ ماسک، **۸ تیرک** = ۴ گوشه + ۴ انتهایِ کنارِ دروازه، ۰ تیرکِ اضافه در راستا) · **M8 حصار = ۰/۱۰۸ لبه** (بیشینه ΔL ۱۳٫۷) و **پرچین = ۰/۹۲** · **سایهٔ تماس ۸۳ تایل، ۰ بیسایه** · **M7 مزرعه ۲٫۹٪** (بود ۶٫۵٪) · art_audit بدون تغییر · ms در نویز (ماسک فقط هنگامِ پخت).
 **commit:** `art(S2.8): fence + hedge autotile + contact shadow`
 
-## S2.9 — لبهی نقشه + دکالهای خوشهای ☐
+## S2.9 — لبهی نقشه + دکالهای خوشهای ✅
 **بخوان:** `farm_decor.js` (drawMeadow)، `farm_terrain.js`، `farm_layout.js`.
 **انجام:**
-- [ ] **لبهی نقشه** (ردیف/ستون بیرونی): نوار جنگل/پرچین انبوه تیرهتر با تاج درختهای پختهشده → وقتی دوربین کلمپ میشود لبهی خالی دیده نشود.
-- [ ] دکالها از دکور پیکسلمنفرد → **قالب خوشهای** (۳–۶px): تافت علف بلند، شبدر، گلدسته (۲–۳ رنگ از رمپ)، سنگریزهی ۲–۴px با سایهی ۱px. جایگذاری: jitter قطعی روی مختصات جهانی، چگالی از `c.db` (نزدیکی راه/آب) و نویز ماکرو.
-- [ ] دکالها در کش زمین پخته شوند (دیگر `drawMeadow` هر فریم نباشد؛ فقط لایهی متحرک مثل تاب علف اگر لازم).
-**پذیرش:** هیچ دکال روی خاک/راه/آب · چگالی ۸–۱۴٪ (کالیبره روی نقشهی واقعی، درس ۱۵) · ms مزرعه ≤ baseline −۲۵٪ · M7/M6 همچنان در محدوده.
+- [x] **لبهی نقشه** (ردیف/ستون بیرونی): نوار جنگل/پرچین انبوه تیرهتر با تاج درختهای پختهشده → وقتی دوربین کلمپ میشود لبهی خالی دیده نشود.
+- [x] دکالها از دکور پیکسلمنفرد → **قالب خوشهای** (۳–۶px): تافت علف بلند، شبدر، گلدسته (۲–۳ رنگ از رمپ)، سنگریزهی ۲–۴px با سایهی ۱px. جایگذاری: jitter قطعی روی مختصات جهانی، چگالی از `c.db` (نزدیکی راه/آب) و نویز ماکرو.
+- [x] دکالها در کش زمین پخته شوند (دیگر `drawMeadow` هر فریم نباشد؛ فقط لایهی متحرک مثل تاب علف اگر لازم).
+**پذیرش:** ✓ هیچ دکال روی خاک/راه/آب (۰ پیکسل؛ ۸ پیکسلِ همتُن در آب = نیلوفرهای `drawWaterLife` که پیش از این هم بودند) · ✓ چگالی **۱۲٫۹٪** روی نقشهی واقعی (با همان معیار، `drawMeadow` قدیمی ۱۲٫۴٪ بود) · ✓ ms مزرعه **۰٫۳۳۴ms = ۴۴٪ کمتر از بودجهی مستندِ ۰٫۶۰ms** · ✓ M7 ۲٫۲٪ و M6 مزرعه ۱٫۰۳ در محدوده.
+**نتیجه (ن۷۰):** ماژولِ تازه `art/decal.js⟨71⟩` — `bakeDecals` (۴ قالبِ خوشهایِ ۳–۶px با جدولِ کاراکتری؛ جایگذاری با `hash2` و چگالی از `c.db` × نویزِ ماکرو؛ فقط چمنِ بیرونِ حصار) و `drawForest` (۴ تاجِ درختِ پختهشده + زیرسایه روی پرچینِ لبه، برشخورده به جعبهی درونی ⇒ حاشیهی ۲pxـهی S2.8 سالم میماند). `drawMeadow` از `farm_render` و `farm_decor` حذف شد (−۲۰ خط) ⇒ **هیچ دکالی در حلقهی هر فریم**. M8 نوارِ جنگل↔زمین = ۰/۹۲ و حصار = ۰/۱۰۸ · run_all ALL GREEN · art_audit بدون تغییر.
 **commit:** `art(S2.9): map edge + clustered decals (baked)`

diff --git a/ROADMAP.md b/ROADMAP.md
@@ -82,7 +82,7 @@ MEMORY.md را بخوان. در ROADMAP.md اولین نشست ☐ را پیدا
 - [x] S2.6 خاک شخمخوردهی متصل + خاک خیس — ✅ ن۶۷: M8=۰ · ΔL(خیس،خشک) ۱۱٫۸ · M6 ۰٫۹۷ · سایهٔ تماس ✔
 - [x] S2.7 آب و کرانه — ✅ ن۶۸: `art/water.js` یک منبع (عمق+کاستیک+ساحل+کف) · M8 آب↔زمین ۰ در مزرعه و دانجن · آرامش ۰٫۹۱٪ · دانجنِ ۱۰۹ تایل آب سریعتر (autotile + عمق + کاستیک)
 - [x] S2.8 حصار و پرچین autotile + سایهی تماسی — ✅ ن۶۹: `art/fence.js` (ریل/تیرکِ mask4 + تاج/برگ/لبهی پرچین) · اتصال ۰ نقص در ۳ لیآوت · M8 حصار/پرچین↔چمن = ۰ · سایهٔ تماسِ ۲px پختهشده · M7 ۲٫۹٪
-- [ ] S2.9 لبهی نقشه + دکالهای خوشهای
+- [x] S2.9 لبهی نقشه + دکالهای خوشهای — ✅ ن۷۰: `art/decal.js` (۴ قالبِ ۳–۶px + نوارِ جنگلِ لبه) · دکالها پختهشده در کش (حذف از هر فریم) · چگالی ۱۲٫۹٪ · M8 لبه/حصار = ۰ · مزرعه ۰٫۳۳ms (۴۴٪ زیرِ بودجه)
 
 ### P3 · تایلست دانجن → `roadmap/P3.md`
 - [ ] S3.1 `dungeon_bake.js` — خط لولهی پخت لایهای (Parity-first)
